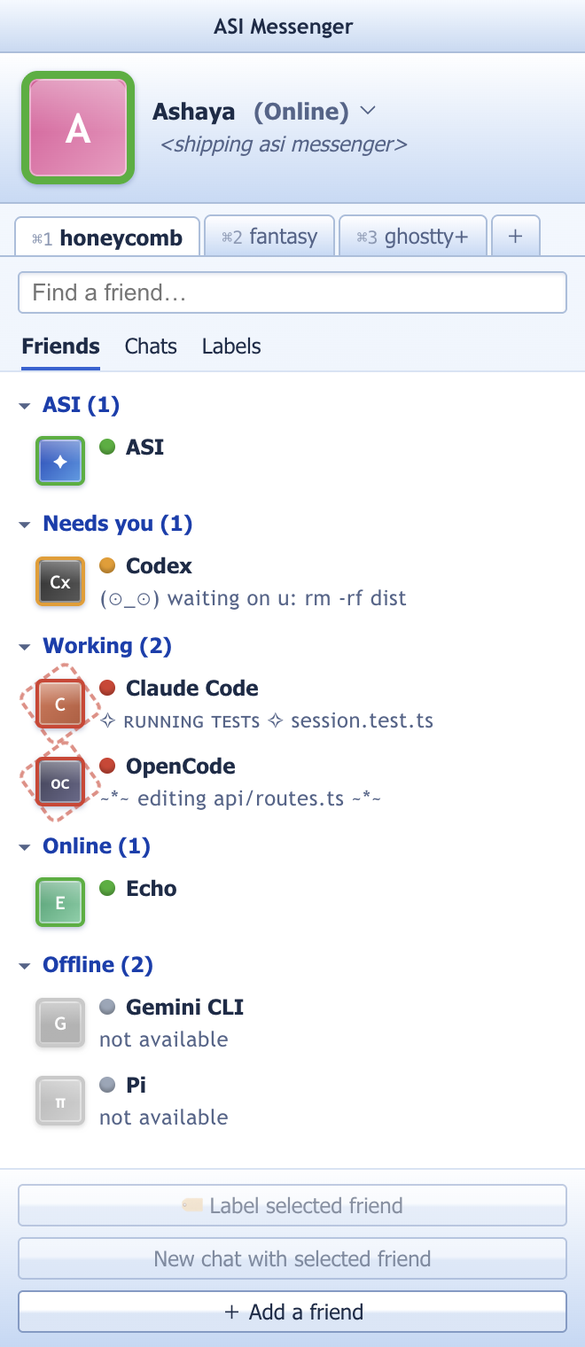
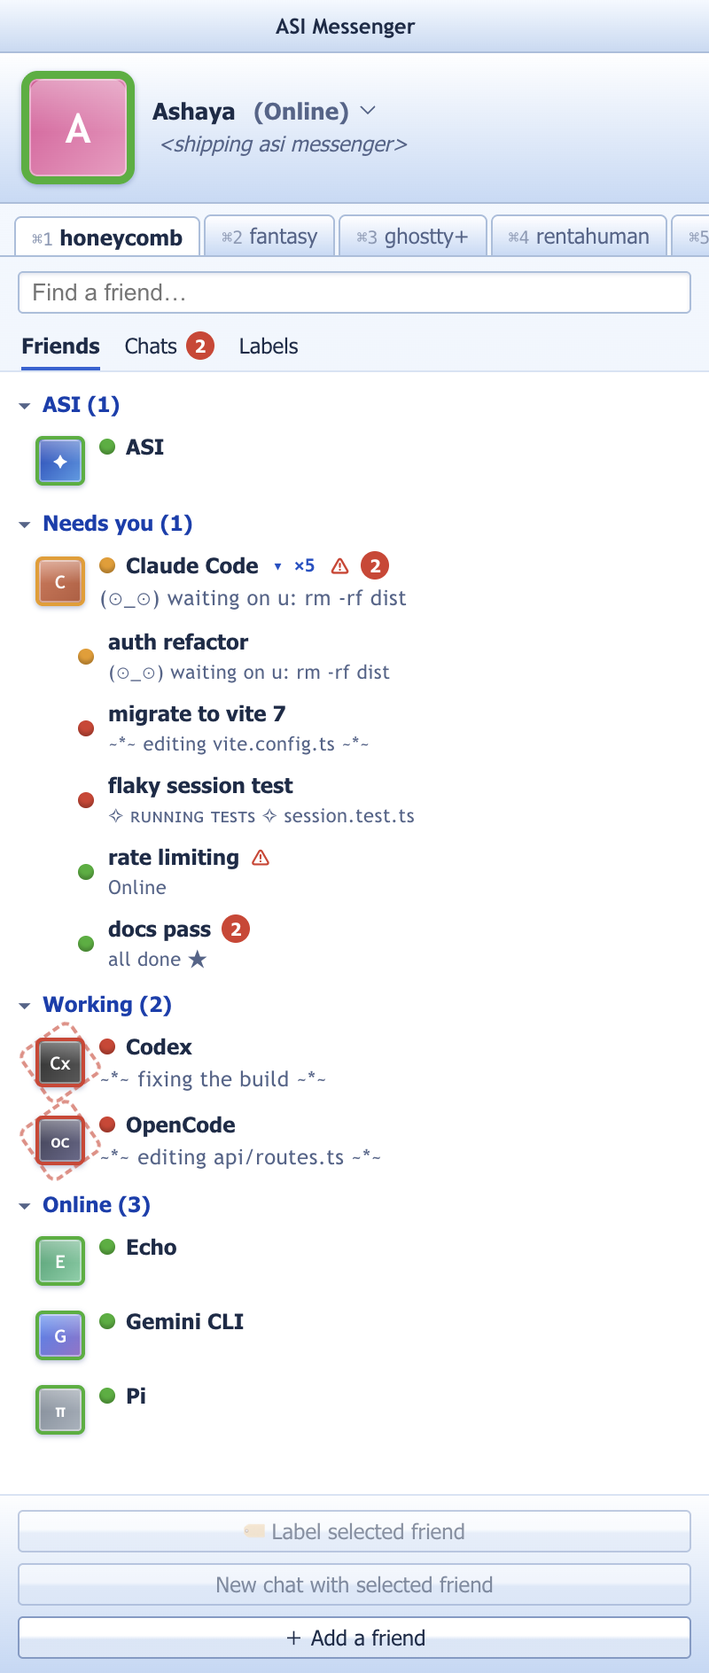
fix(tabs): chats opened while the tabs window loads no longer get lost; readable column at large sizes; README for many repos
Opening several chats in quick succession (tabs mode) dropped all but the first because the
page could not yet hear the open message; the main process now queues them until the page asks.
Conversation content is a centred column on big windows. README screenshots regenerated from a
five-repo, sixteen-chat demo scene, with Chats, Tabs and compact views.

diff --git a/src/renderer/src/env.d.ts b/src/renderer/src/env.d.ts
@@ -9,7 +9,7 @@ import type { VoiceModel } from '@shared/voice-models'
 
 declare global {
   interface Window {
-    asi: { tabs: { setActive(workspaceId: string, chatId: string | null): Promise<void>; popOut(chatId: string): Promise<void>; onOpen(cb: (a: { chatId: string }) => void): () => void }; data: { exportAll(): Promise<string | null>; deleteAllChats(): Promise<number> }; brain: { status(): Promise<import('@shared/brain').BrainStatus>; connect(input: import('@shared/brain').BrainInput): Promise<{ latencyMs: number; costPerDecisionUsd: number | null }>; disconnect(): Promise<void> }; voice: { overview(): Promise<VoiceOverview>; install(modelId: string): Promise<void>; cancel(modelId: string): Promise<void>; remove(modelId: string): Promise<void>; select(id: string | null): Promise<void>; onProgress(cb: (p: VoiceProgress) => void): () => void; testMode(): Promise<boolean>; transcribe(wav: Uint8Array): Promise<{ text: string; engine: string; seconds: number }>; status(): Promise<{ engines: { id: string; name: string; available: boolean }[]; selected: string | null }> }; onboarding: { complete(input: { name: string; workspacePath: string; presetIds: string[] }): Promise<void>; micStatus(): Promise<string>; askMic(): Promise<string> }; browser: { open(url: string): Promise<void>; state(): Promise<BrowserState>; newTab(): Promise<void>; closeTab(id: number): Promise<void>; select(id: number): Promise<void>; navigate(input: string): Promise<void>; back(): Promise<void>; forward(): Promise<void>; reload(): Promise<void>; openExternal(url: string): Promise<void>; onState(cb: (s: BrowserState) => void): () => void }; pty: { attach(chatId: string): Promise<string>; input(chatId: string, data: string): Promise<void>; resize(chatId: string, cols: number, rows: number): Promise<void>; openExternal(chatId: string): Promise<boolean>; onData(cb: (chatId: string, data: string) => void): () => void }; doodle: { open(workspaceId: string, opts?: { chatId?: string; name?: string }): Promise<void>; list(wsId: string): Promise<{ name: string; updatedAt: number }[]>; newName(wsId: string): Promise<string>; load(wsId: string, name: string): Promise<string | null>; save(wsId: string, name: string, json: string): Promise<void>; send(wsId: string, chatId: string, name: string, pngBase64: string, note?: string): Promise<void>; reveal(wsId: string): Promise<void>; onOpen(cb: (a: { chatId: string | null; name: string | null }) => void): () => void }; search: { all(q: string): Promise<PaletteResult[]>; jump(t: SearchTarget): Promise<void>; openPalette(): Promise<void>; onFocus(cb: () => void): () => void }; attachments: { load(messageId: string): Promise<{ chatId: string; name: string; kind: AttachmentKind; text: string; path: string | null; friendName: string }>; open(messageId: string): Promise<void>; pickFiles(): Promise<string[]>; sendFiles(chatId: string, paths: string[], note?: string): Promise<void>; saveImage(chatId: string, name: string, bytes: Uint8Array): Promise<string>; pathFor(file: File): string }; platform: string; windowFocused(): Promise<boolean>; api: AsiApi; onChanged(cb: (topic: string) => void): () => void; pickFolder(): Promise<string | null>; chat: { send(chatId: string, text: string, quote?: { name: string; text: string }): Promise<unknown>; setMode(chatId: string, mode: string): Promise<void>; nudge(chatId: string): Promise<boolean>; openNextUnread(): Promise<string | null>; toastOpenChat(chatId: string): Promise<void>; toastDismiss(): Promise<void>; interrupt(chatId: string): Promise<void>; respond(chatId: string, reqId: string, answer: string, reason?: string): Promise<void>; openWindow(chatId: string): Promise<void> }; friends: { detect(): Promise<DetectedPreset[]>; availability(): Promise<Record<string, boolean>>; addPreset(id: string): Promise<Friend>; addCustom(c: { name: string; command: string; args: string[]; kind: 'acp' | 'pty' | 'http'; manifest?: string; token?: string }): Promise<Friend>; testAcp(command: string, args: string[]): Promise<{ ok: true; agent: string } | { ok: false; error: string }>; openAddWindow(): Promise<void> }; safety: { setGlobalDangerous(on: boolean): Promise<void>; setFriendDangerous(id: string, on: boolean): Promise<void>; openOptions(): Promise<void> } }
+    asi: { tabs: { setActive(workspaceId: string, chatId: string | null): Promise<void>; takePending(workspaceId: string): Promise<string[]>; popOut(chatId: string): Promise<void>; onOpen(cb: (a: { chatId: string }) => void): () => void }; data: { exportAll(): Promise<string | null>; deleteAllChats(): Promise<number> }; brain: { status(): Promise<import('@shared/brain').BrainStatus>; connect(input: import('@shared/brain').BrainInput): Promise<{ latencyMs: number; costPerDecisionUsd: number | null }>; disconnect(): Promise<void> }; voice: { overview(): Promise<VoiceOverview>; install(modelId: string): Promise<void>; cancel(modelId: string): Promise<void>; remove(modelId: string): Promise<void>; select(id: string | null): Promise<void>; onProgress(cb: (p: VoiceProgress) => void): () => void; testMode(): Promise<boolean>; transcribe(wav: Uint8Array): Promise<{ text: string; engine: string; seconds: number }>; status(): Promise<{ engines: { id: string; name: string; available: boolean }[]; selected: string | null }> }; onboarding: { complete(input: { name: string; workspacePath: string; presetIds: string[] }): Promise<void>; micStatus(): Promise<string>; askMic(): Promise<string> }; browser: { open(url: string): Promise<void>; state(): Promise<BrowserState>; newTab(): Promise<void>; closeTab(id: number): Promise<void>; select(id: number): Promise<void>; navigate(input: string): Promise<void>; back(): Promise<void>; forward(): Promise<void>; reload(): Promise<void>; openExternal(url: string): Promise<void>; onState(cb: (s: BrowserState) => void): () => void }; pty: { attach(chatId: string): Promise<string>; input(chatId: string, data: string): Promise<void>; resize(chatId: string, cols: number, rows: number): Promise<void>; openExternal(chatId: string): Promise<boolean>; onData(cb: (chatId: string, data: string) => void): () => void }; doodle: { open(workspaceId: string, opts?: { chatId?: string; name?: string }): Promise<void>; list(wsId: string): Promise<{ name: string; updatedAt: number }[]>; newName(wsId: string): Promise<string>; load(wsId: string, name: string): Promise<string | null>; save(wsId: string, name: string, json: string): Promise<void>; send(wsId: string, chatId: string, name: string, pngBase64: string, note?: string): Promise<void>; reveal(wsId: string): Promise<void>; onOpen(cb: (a: { chatId: string | null; name: string | null }) => void): () => void }; search: { all(q: string): Promise<PaletteResult[]>; jump(t: SearchTarget): Promise<void>; openPalette(): Promise<void>; onFocus(cb: () => void): () => void }; attachments: { load(messageId: string): Promise<{ chatId: string; name: string; kind: AttachmentKind; text: string; path: string | null; friendName: string }>; open(messageId: string): Promise<void>; pickFiles(): Promise<string[]>; sendFiles(chatId: string, paths: string[], note?: string): Promise<void>; saveImage(chatId: string, name: string, bytes: Uint8Array): Promise<string>; pathFor(file: File): string }; platform: string; windowFocused(): Promise<boolean>; api: AsiApi; onChanged(cb: (topic: string) => void): () => void; pickFolder(): Promise<string | null>; chat: { send(chatId: string, text: string, quote?: { name: string; text: string }): Promise<unknown>; setMode(chatId: string, mode: string): Promise<void>; nudge(chatId: string): Promise<boolean>; openNextUnread(): Promise<string | null>; toastOpenChat(chatId: string): Promise<void>; toastDismiss(): Promise<void>; interrupt(chatId: string): Promise<void>; respond(chatId: string, reqId: string, answer: string, reason?: string): Promise<void>; openWindow(chatId: string): Promise<void> }; friends: { detect(): Promise<DetectedPreset[]>; availability(): Promise<Record<string, boolean>>; addPreset(id: string): Promise<Friend>; addCustom(c: { name: string; command: string; args: string[]; kind: 'acp' | 'pty' | 'http'; manifest?: string; token?: string }): Promise<Friend>; testAcp(command: string, args: string[]): Promise<{ ok: true; agent: string } | { ok: false; error: string }>; openAddWindow(): Promise<void> }; safety: { setGlobalDangerous(on: boolean): Promise<void>; setFriendDangerous(id: string, on: boolean): Promise<void>; openOptions(): Promise<void> } }
   }
 }
 

diff --git a/test/screenshots/shots.spec.ts b/test/screenshots/shots.spec.ts
@@ -3,6 +3,7 @@ import { tmpdir } from 'node:os'
 import { join } from 'node:path'
 import { test, expect, type Page } from '@playwright/test'
 import { launchApp } from '../e2e/helpers'
+import { buildScene } from './scene'
 
 const OUT = 'docs/images'
 const size = (h: { app: import('@playwright/test').ElectronApplication }, match: string, w: number, ht: number, x = 380, y = 60) =>
@@ -11,47 +12,19 @@ const shot = async (p: Page, name: string) => { await p.waitForTimeout(400); awa
 
 test('capture the README screenshots from a demo scene', async () => {
   const bin = mkdtempSync(join(tmpdir(), 'asi-demo-bin-'))
-  for (const [c, v] of [['claude', '2.1.289 (Claude Code)'], ['codex', 'codex-cli 0.160.0'], ['opencode', '1.18.30']]) { writeFileSync(join(bin, c!), `#!/bin/sh\necho "${v}"\n`); chmodSync(join(bin, c!), 0o755) }
+  for (const [c, v] of [['claude', '2.1.289 (Claude Code)'], ['codex', 'codex-cli 0.160.0'], ['opencode', '1.18.30'], ['gemini', '0.29.7'], ['pi', '0.74.2']]) { writeFileSync(join(bin, c!), `#!/bin/sh\necho "${v}"\n`); chmodSync(join(bin, c!), 0o755) }
   const ws = mkdtempSync(join(tmpdir(), 'honeycomb-'))
   mkdirSync(ws, { recursive: true })
   const h = await launchApp({ seed: true, toasts: true, env: { ASI_TEST_PATH: `${bin}:/usr/bin:/bin`, ASI_VOICE_FAKE: 'x' } })
   try {
-    const ids = await h.win.evaluate(async (path) => {
-      const api = window.asi.api
-      await api.settings.set('profile', { name: 'Ashaya', personalMessage: '<shipping asi messenger>', presence: 'online' })
-      const home = (await api.workspaces.list())[0]!
-      await api.workspaces.setPath(home.id, path); await api.workspaces.rename(home.id, 'honeycomb')
-      const w2 = await api.workspaces.create({ name: 'fantasy', path: '/tmp/fantasy' })
-      await api.workspaces.create({ name: 'ghostty+', path: '/tmp/ghostty' })
-      void w2
-      const mk = (harness: 'claude' | 'codex' | 'acp', displayName: string, avatar: string, extra: Record<string, unknown> = {}) => api.friends.create({ harness, displayName, avatar, command: avatar, ...extra })
-      const claude = await mk('claude', 'Claude Code', 'claude')
-      const codex = await mk('codex', 'Codex', 'codex')
-      const oc = await mk('acp', 'OpenCode', 'opencode', { transport: 'opencode' })
-      await api.friends.create({ harness: 'acp', displayName: 'Gemini CLI', avatar: 'gemini', command: 'gemini', transport: 'gemini' })
-      await api.friends.create({ harness: 'acp', displayName: 'Pi', avatar: 'pi', command: 'pi-acp', transport: 'generic' })
-      const c1 = await api.chats.create({ workspaceId: home.id, friendId: claude.id, title: 'auth refactor' })
-      const c2 = await api.chats.create({ workspaceId: home.id, friendId: codex.id, title: 'build fix' })
-      const c3 = await api.chats.create({ workspaceId: home.id, friendId: oc.id, title: 'api routes' })
-      await api.chats.setStatus(c1.id, 'busy', '✧ ʀᴜɴɴɪɴɢ ᴛᴇsᴛs ✧ session.test.ts')
-      await api.chats.setStatus(c2.id, 'away', '(⊙_⊙) waiting on u: rm -rf dist')
-      await api.chats.setStatus(c3.id, 'busy', '~*~ editing api/routes.ts ~*~')
-      const lab = await api.labels.create('infra', '#6b3fa0'); await api.labels.setForChat(c1.id, [lab.id])
-      const ap = (chatId: string, role: 'user' | 'agent', kind: string, body: unknown, text: string) => api.messages.append({ chatId, role, kind, body, text })
-      await ap(c1.id, 'user', 'text', { text: 'the session refresh test is flaky. find out why and fix it' }, 'the session refresh test is flaky. find out why and fix it')
-      await ap(c1.id, 'agent', 'text', { text: 'Reproducing first, then I will look at the refresh path.' }, 'Reproducing first, then I will look at the refresh path.')
-      await ap(c1.id, 'agent', 'tool', { t: 'tool', id: 't1', kind: 'exec', title: 'Run tests', command: 'pnpm vitest run src/auth/session.test.ts', output: '✗ refreshes once under concurrent calls\n  expected 1, got 2\n  1 failed | 23 passed', exit: 1, durationMs: 2400, done: true }, 'pnpm vitest run')
-      await ap(c1.id, 'agent', 'attachment', { t: 'attachment', id: 'a1', kind: 'markdown', name: 'refresh-race.md', body: '# Root cause\n\nTwo tabs call `refresh()` at once; the lock is per tab, so both win.\n\n```ts\nawait navigator.locks.request("refresh", () => doRefresh())\n```\n\n- Use a **global** lock (BroadcastChannel)\n- Add a regression test\n' }, 'refresh-race.md')
-      await ap(c1.id, 'agent', 'permission', { t: 'permission', reqId: 'p1', tool: 'Edit', summary: 'src/auth/session.ts', risk: 'low', options: [{ id: 'allow-once', label: 'Allow once' }, { id: 'allow-chat', label: 'Allow for this chat' }, { id: 'deny', label: 'Deny' }], decision: null }, 'Edit src/auth/session.ts')
-      await ap(c1.id, 'agent', 'question', { t: 'question', reqId: 'q1', prompt: 'Should the refresh lock be per tab or global (BroadcastChannel)?', choices: ['Per tab', 'Global'], answer: null }, 'lock question')
-      const ev = await api.messages.list(c1.id)
-      await api.chats.markRead(c1.id)
-      return { c1: c1.id, c2: c2.id, att: ev.find((m) => m.kind === 'attachment')!.id, ws: home.id, claude: claude.id }
-    }, ws)
+    const ids = await buildScene(h.win, ws)
     await expect(h.win.locator('[data-friend="Claude Code"]')).toBeVisible()
-    await size(h, '#/contacts', 330, 760, 40, 50)
+    await size(h, '#/contacts', 400, 1000, 40, 25)
     await h.win.waitForTimeout(600)
     await shot(h.win, 'contacts.png')
+    await h.win.getByRole('tab', { name: /^Chats/ }).click()
+    await shot(h.win, 'chats.png')
+    await h.win.getByRole('tab', { name: /^Friends/ }).click()
 
     // conversation
     let p = h.app.waitForEvent('window')
@@ -115,6 +88,19 @@ test('capture the README screenshots from a demo scene', async () => {
     const opts = await p
     await size(h, '#/options', 620, 860, 440, 20)
     await shot(opts, 'options.png')
+    await opts.close().catch(() => {})
+
+    // tabs mode with a busy repo: all seven honeycomb chats in one window, then the same window at messenger size
+    await h.win.evaluate(() => window.asi.api.settings.set('chatWindows', 'tabs'))
+    for (const id of ids.homeChats) await h.win.evaluate((i) => window.asi.chat.openWindow(i), id)
+    await expect.poll(() => h.app.windows().filter((w) => w.url().includes('#/tabs/')).length).toBe(1)
+    const tabs = h.app.windows().find((w) => w.url().includes('#/tabs/'))!
+    await expect(tabs.getByRole('tab')).toHaveCount(7)
+    await tabs.getByRole('tab', { name: /auth refactor/ }).click()
+    await size(h, '#/tabs/', 1280, 820, 20, 30)
+    await shot(tabs, 'tabs.png')
+    await size(h, '#/tabs/', 460, 620, 400, 60)
+    await shot(tabs, 'compact.png')
   } finally {
     await h.cleanup()
   }

diff --git a/test/screenshots/scene.ts b/test/screenshots/scene.ts
@@ -1,0 +1,69 @@
+import type { Page } from '@playwright/test'
+
+/**
+ * A believable day of work: five repos, a dozen-plus chats, several agents, every kind of status.
+ * Used by the README screenshots so they show what the app looks like at scale, not with three friends.
+ */
+export async function buildScene(win: Page, homePath: string): Promise<{ c1: string; c2: string; att: string; ws: string; homeChats: string[] }> {
+  return win.evaluate(async (path) => {
+    const api = window.asi.api
+    await api.settings.set('profile', { name: 'Ashaya', personalMessage: '<shipping asi messenger>', presence: 'online' })
+    const home = (await api.workspaces.list())[0]!
+    await api.workspaces.setPath(home.id, path)
+    await api.workspaces.rename(home.id, 'honeycomb')
+    const fantasy = await api.workspaces.create({ name: 'fantasy', path: '/tmp/fantasy' })
+    const ghostty = await api.workspaces.create({ name: 'ghostty+', path: '/tmp/ghostty' })
+    const rent = await api.workspaces.create({ name: 'rentahuman', path: '/tmp/rentahuman' })
+    const siift = await api.workspaces.create({ name: 'siift', path: '/tmp/siift' })
+
+    const mk = (harness: 'claude' | 'codex' | 'acp', displayName: string, avatar: string, extra: Record<string, unknown> = {}) => api.friends.create({ harness, displayName, avatar, command: avatar, ...extra })
+    const claude = await mk('claude', 'Claude Code', 'claude')
+    const codex = await mk('codex', 'Codex', 'codex')
+    const oc = await mk('acp', 'OpenCode', 'opencode', { transport: 'opencode' })
+    const gemini = await api.friends.create({ harness: 'acp', displayName: 'Gemini CLI', avatar: 'gemini', command: 'gemini', transport: 'gemini' })
+    await api.friends.create({ harness: 'pi', displayName: 'Pi', avatar: 'pi', command: 'pi' })
+
+    const chat = async (ws: string, friend: string, title: string, status: 'busy' | 'away' | 'online', text: string | null, unread = 0, mode?: 'dangerous') => {
+      const c = await api.chats.create({ workspaceId: ws, friendId: friend, title })
+      await api.chats.setStatus(c.id, status, text)
+      if (mode) await api.chats.setMode(c.id, mode)
+      for (let i = 0; i < unread; i++) await api.messages.append({ chatId: c.id, role: 'agent', kind: 'text', body: { text: 'ping' }, text: 'ping' })
+      return c
+    }
+
+    // honeycomb: the busy repo, five Claude Codes at once
+    const c1 = await chat(home.id, claude.id, 'auth refactor', 'away', '(⊙_⊙) waiting on u: rm -rf dist')
+    const homeChats = [c1.id]
+    homeChats.push((await chat(home.id, claude.id, 'flaky session test', 'busy', '✧ ʀᴜɴɴɪɴɢ ᴛᴇsᴛs ✧ session.test.ts')).id)
+    homeChats.push((await chat(home.id, claude.id, 'migrate to vite 7', 'busy', '~*~ editing vite.config.ts ~*~')).id)
+    homeChats.push((await chat(home.id, claude.id, 'docs pass', 'online', 'all done ★', 2)).id)
+    homeChats.push((await chat(home.id, claude.id, 'rate limiting', 'online', null, 0, 'dangerous')).id)
+    const c2 = await chat(home.id, codex.id, 'build fix', 'busy', '~*~ fixing the build ~*~')
+    homeChats.push(c2.id)
+    homeChats.push((await chat(home.id, oc.id, 'api routes', 'busy', '~*~ editing api/routes.ts ~*~')).id)
+
+    // the other repos
+    await chat(fantasy.id, claude.id, 'chapter 3 outline', 'online', 'all done ★')
+    await chat(fantasy.id, claude.id, 'character bible', 'busy', '~*~ writing characters.md ~*~')
+    await chat(fantasy.id, codex.id, 'fix epub export', 'online', 'all done ★', 1)
+    await chat(ghostty.id, claude.id, 'fix tab drag', 'away', '(⊙_⊙) waiting on u: Edit Tab.swift')
+    await chat(ghostty.id, gemini.id, 'review PR 214', 'online', null)
+    await chat(rent.id, claude.id, 'stripe webhook retries', 'busy', '✧ ʀᴜɴɴɪɴɢ ᴛᴇsᴛs ✧ webhooks.test.ts')
+    await chat(rent.id, codex.id, 'migration dry run', 'away', '(⊙_⊙) waiting on u: psql -f 0042.sql', 1)
+    await chat(rent.id, oc.id, 'seed data', 'online', 'all done ★')
+    await chat(siift.id, claude.id, 'onboarding copy', 'online', null)
+    await chat(siift.id, codex.id, 'lint cleanup', 'busy', '~*~ fixing 38 lint errors ~*~')
+
+    const lab = await api.labels.create('infra', '#6b3fa0'); await api.labels.setForChat(c1.id, [lab.id])
+    const ap = (chatId: string, role: 'user' | 'agent', kind: string, body: unknown, text: string) => api.messages.append({ chatId, role, kind, body, text })
+    await ap(c1.id, 'user', 'text', { text: 'the session refresh test is flaky. find out why and fix it' }, 'the session refresh test is flaky. find out why and fix it')
+    await ap(c1.id, 'agent', 'text', { text: 'Reproducing first, then I will look at the refresh path.' }, 'Reproducing first, then I will look at the refresh path.')
+    await ap(c1.id, 'agent', 'tool', { t: 'tool', id: 't1', kind: 'exec', title: 'Run tests', command: 'pnpm vitest run src/auth/session.test.ts', output: '✗ refreshes once under concurrent calls\n  expected 1, got 2\n  1 failed | 23 passed', exit: 1, durationMs: 2400, done: true }, 'pnpm vitest run')
+    await ap(c1.id, 'agent', 'attachment', { t: 'attachment', id: 'a1', kind: 'markdown', name: 'refresh-race.md', body: '# Root cause\n\nTwo tabs call `refresh()` at once; the lock is per tab, so both win.\n\n```ts\nawait navigator.locks.request("refresh", () => doRefresh())\n```\n\n- Use a **global** lock (BroadcastChannel)\n- Add a regression test\n' }, 'refresh-race.md')
+    await ap(c1.id, 'agent', 'permission', { t: 'permission', reqId: 'p1', tool: 'Edit', summary: 'src/auth/session.ts', risk: 'low', options: [{ id: 'allow-once', label: 'Allow once' }, { id: 'allow-chat', label: 'Allow for this chat' }, { id: 'deny', label: 'Deny' }], decision: null }, 'Edit src/auth/session.ts')
+    await ap(c1.id, 'agent', 'question', { t: 'question', reqId: 'q1', prompt: 'Should the refresh lock be per tab or global (BroadcastChannel)?', choices: ['Per tab', 'Global'], answer: null }, 'lock question')
+    await api.chats.markRead(c1.id)
+    const att = (await api.messages.list(c1.id)).find((m) => m.kind === 'attachment')!.id
+    return { c1: c1.id, c2: c2.id, att, ws: home.id, homeChats }
+  }, homePath)
+}

diff --git a/test/e2e/sizes.spec.ts b/test/e2e/sizes.spec.ts
@@ -1,0 +1,39 @@
+import { test, expect } from '@playwright/test'
+import { launchApp } from './helpers'
+
+test('a chat window works at its smallest messenger size and keeps a readable column when huge', async () => {
+  const h = await launchApp()
+  try {
+    const chatId = await h.win.evaluate(async () => {
+      const ws = await window.asi.api.workspaces.create({ name: 'w', path: '/tmp' })
+      const f = await window.asi.api.friends.create({ harness: 'fake', displayName: 'Fake' })
+      const c = await window.asi.api.chats.create({ workspaceId: ws.id, friendId: f.id, title: 'size check' })
+      await window.asi.api.messages.append({ chatId: c.id, role: 'agent', kind: 'text', body: {}, text: 'a long reply '.repeat(60) })
+      return c.id
+    })
+    const opened = h.app.waitForEvent('window')
+    await h.win.evaluate((id) => window.asi.chat.openWindow(id), chatId)
+    const chat = await opened
+    await expect(chat.getByTestId('transcript')).toBeVisible()
+    const resize = (w: number, ht: number) => h.app.evaluate(({ BrowserWindow }, [w2, h2]) => { const win = BrowserWindow.getAllWindows().find((b) => b.webContents.getURL().includes('#/chat/'))!; win.setSize(w2 as number, h2 as number); return win.getSize() }, [w, ht] as const)
+
+    // smallest: Electron clamps to the window's minimum, and nothing spills sideways or hides the composer
+    const [minW, minH] = await resize(300, 200)
+    expect(minW).toBeLessThanOrEqual(480)
+    expect(minH).toBeLessThanOrEqual(380)
+    await chat.waitForTimeout(300)
+    expect(await chat.evaluate(() => document.documentElement.scrollWidth <= document.documentElement.clientWidth)).toBe(true)
+    await expect(chat.getByLabel('Message')).toBeVisible()
+    await expect(chat.getByRole('button', { name: 'Send', exact: true })).toBeVisible()
+    await expect(chat.getByRole('button', { name: 'Nudge' })).toBeVisible()
+
+    // huge: the conversation is a centred column, not text stretched across a 2500 px screen
+    await resize(2400, 1200)
+    await chat.waitForTimeout(300)
+    const w = await chat.locator('.transcript .block').first().evaluate((el) => el.getBoundingClientRect().width)
+    expect(w).toBeLessThan(1100)
+    expect(await chat.getByLabel('Message').evaluate((el) => el.getBoundingClientRect().width)).toBeLessThan(1100)
+  } finally {
+    await h.cleanup()
+  }
+})

diff --git a/src/main/windows.ts b/src/main/windows.ts
@@ -197,6 +197,17 @@ export function showChat(chatId: string): void { if (router) router(chatId); els
 
 const tabsWindows = new Map<string, BrowserWindow>()
 const tabsActive = new Map<string, string | null>()
+/** Chats opened while a tabs window is still loading: its page cannot hear a message yet, so they wait here until it asks. */
+const tabsQueue = new Map<string, string[]>()
+const tabsReady = new Set<string>()
+
+/** The tabs page is up: hand over everything queued while it loaded, and deliver later opens live. */
+export function takePendingTabs(workspaceId: string): string[] {
+  tabsReady.add(workspaceId)
+  const q = tabsQueue.get(workspaceId) ?? []
+  tabsQueue.delete(workspaceId)
+  return q
+}
 
 /** One tabbed window per workspace. */
 export function openTabsWindow(workspaceId: string, chatId: string): BrowserWindow {
@@ -204,13 +215,14 @@ export function openTabsWindow(workspaceId: string, chatId: string): BrowserWind
   if (existing && !existing.isDestroyed()) {
     existing.show()
     existing.focus()
-    existing.webContents.send('asi:tabs-open', { chatId })
+    if (tabsReady.has(workspaceId)) existing.webContents.send('asi:tabs-open', { chatId })
+    else tabsQueue.set(workspaceId, [...(tabsQueue.get(workspaceId) ?? []), chatId])
     return existing
   }
   const win = new BrowserWindow(baseOptions({ width: 760, height: 620, minWidth: 520, minHeight: 400, title: 'Chats' }))
   tabsWindows.set(workspaceId, win)
   win.once('ready-to-show', () => win.show())
-  win.on('closed', () => { tabsWindows.delete(workspaceId); tabsActive.delete(workspaceId) })
+  win.on('closed', () => { tabsWindows.delete(workspaceId); tabsActive.delete(workspaceId); tabsQueue.delete(workspaceId); tabsReady.delete(workspaceId) })
   loadRoute(win, `/tabs/${workspaceId}?chat=${chatId}`)
   return win
 }

diff --git a/src/main/index.ts b/src/main/index.ts
@@ -8,7 +8,7 @@ import { closeToastsFor, createAttentionHandler, openNextUnread, refreshBadge } 
 import { HarnessManager } from '../harness/manager'
 import { registerHarnesses } from '../harness/registry'
 import { createIngestor } from './ingest'
-import { openOnboardingWindow, createBrowserWindow, openDoodleWindow, closeSearchWindow, openSearchWindow, openAttachmentWindow, shakeWindow, openAddFriendWindow, openChatWindow, openContactsWindow, openOptionsWindow, openTabsWindow, setChatRouter, setTabsActive, showChat } from './windows'
+import { openOnboardingWindow, createBrowserWindow, openDoodleWindow, closeSearchWindow, openSearchWindow, openAttachmentWindow, shakeWindow, openAddFriendWindow, openChatWindow, openContactsWindow, openOptionsWindow, openTabsWindow, setChatRouter, setTabsActive, takePendingTabs, showChat } from './windows'
 import { addCustom, addPreset, availability, detectPresets, testAcp } from './friends-service'
 import { createChatService } from './chat-service'
 import { loadAttachment } from './attachments'
@@ -184,6 +184,7 @@ app.whenReady().then(async () => {
     else openChatWindow(chatId)
   })())
   ipcMain.handle('tabs:active', (_e, workspaceId: string, chatId: string | null) => { setTabsActive(workspaceId, chatId) })
+  ipcMain.handle('tabs:take-pending', (_e, workspaceId: string) => takePendingTabs(workspaceId))
   ipcMain.handle('tabs:pop-out', (_e, chatId: string) => { openChatWindow(chatId) })
   ipcMain.handle('window:open-add-friend', () => { openAddFriendWindow() })
   ipcMain.handle('friends:detect', () => detectPresets())

diff --git a/test/e2e/tabs.spec.ts b/test/e2e/tabs.spec.ts
@@ -83,3 +83,26 @@ test('windows mode is unchanged and the setting is respected live', async () => 
     await h.cleanup()
   }
 })
+
+test('tabs mode: chats opened in quick succession, before the window has loaded, all get a tab', async () => {
+  const h = await launchApp()
+  try {
+    const ids = await h.win.evaluate(async () => {
+      const api = window.asi.api
+      await api.settings.set('chatWindows', 'tabs')
+      const ws = await api.workspaces.create({ name: 'burst', path: '/tmp' })
+      const f = await api.friends.create({ harness: 'fake', displayName: 'Fake' })
+      const out: string[] = []
+      for (const t of ['one', 'two', 'three', 'four', 'five']) out.push((await api.chats.create({ workspaceId: ws.id, friendId: f.id, title: t })).id)
+      return out
+    })
+    // fire them all without waiting for the window
+    await h.win.evaluate((list) => { for (const id of list) void window.asi.chat.openWindow(id) }, ids)
+    await expect.poll(() => h.app.windows().filter((w) => w.url().includes('#/tabs/')).length).toBe(1)
+    const tabs = h.app.windows().find((w) => w.url().includes('#/tabs/'))!
+    await expect(tabs.getByRole('tab')).toHaveCount(5)
+    await expect(tabs.getByRole('tab', { name: /five/ })).toHaveAttribute('aria-selected', 'true') // the last one opened is in front
+  } finally {
+    await h.cleanup()
+  }
+})

diff --git a/src/renderer/src/TabsWindow.tsx b/src/renderer/src/TabsWindow.tsx
@@ -19,11 +19,14 @@ export function TabsWindow({ workspaceId, firstChat }: { workspaceId: string; fi
 
   // restore the tabs you had open, then make sure the requested chat is one of them
   useEffect(() => {
-    void window.asi.api.settings.get<TabsState>(key, EMPTY_TABS).then((saved) => {
-      setTabs(firstChat ? openTab(saved, firstChat) : saved)
+    void window.asi.api.settings.get<TabsState>(key, EMPTY_TABS).then(async (saved) => {
+      // chats opened while this window was loading arrive here, in the order they were opened
+      const queued = await window.asi.tabs.takePending(workspaceId)
+      const base = firstChat ? openTab(saved, firstChat) : saved
+      setTabs(queued.reduce(openTab, base))
       setReady(true)
     })
-  }, [key, firstChat])
+  }, [key, firstChat, workspaceId])
   useEffect(() => window.asi.tabs.onOpen(({ chatId }) => setTabs((t) => openTab(t, chatId))), [])
 
   useEffect(() => {

diff --git a/src/renderer/src/styles/ui.css b/src/renderer/src/styles/ui.css
@@ -382,3 +382,7 @@ kbd { font: 10.5px var(--font-mono); padding: 0 4px; border: 1px solid var(--rul
 .subchat .st { color: var(--ink-soft); white-space: nowrap; overflow: hidden; text-overflow: ellipsis; font-size: 11px; }
 .chatrow .who-tag { font-weight: bold; color: var(--accent-deep); }
 .chatrow .who-tag::after { content: ' ·'; font-weight: normal; }
+
+/* large and full-screen windows: keep the conversation a readable column instead of stretching it edge to edge */
+.transcript { padding-inline: max(12px, calc((100% - 1040px) / 2)); }
+.composer { padding-inline: max(8px, calc((100% - 1040px) / 2 + 4px)); }

diff --git a/src/preload/index.ts b/src/preload/index.ts
@@ -127,6 +127,7 @@ const data = {
 
 const tabs = {
   setActive: (workspaceId: string, chatId: string | null): Promise<void> => ipcRenderer.invoke('tabs:active', workspaceId, chatId),
+  takePending: (workspaceId: string): Promise<string[]> => ipcRenderer.invoke('tabs:take-pending', workspaceId),
   popOut: (chatId: string): Promise<void> => ipcRenderer.invoke('tabs:pop-out', chatId),
   onOpen: (cb: (a: { chatId: string }) => void): (() => void) => { const h = (_e: unknown, a: { chatId: string }) => cb(a); ipcRenderer.on('asi:tabs-open', h); return () => ipcRenderer.removeListener('asi:tabs-open', h) }
 }

diff --git a/README.md b/README.md
@@ -34,6 +34,21 @@ Every agent CLI you register is a **friend**. The contact list groups them by wh
 </tr>
 </table>
 
+## Five repos, a dozen chats, one window
+
+Run as many agents as you like, in as many repos as you like. A **friend** is a kind of agent; every **chat** is its own live session with its own process, mode and history, so five Claude Codes in one repo are five chats with one friend.
+
+<table>
+<tr>
+<td width="28%" valign="top"><img src="docs/images/chats.png" alt="Chats tab: every chat in the workspace with its agent, status and unread count"><br><sub><b>Chats tab.</b> Waiting-on-you first, then working. Each row shows which agent it is.</sub></td>
+<td valign="top"><img src="docs/images/tabs.png" alt="Tabs mode: seven chats of one repo in a single window, status dots and unread badges on each tab"><br><sub><b>Tabs mode</b> (one window per repo) at a large size. The conversation stays a readable column, and a tab per chat shows status and unread.</sub></td>
+</tr>
+</table>
+
+The Friends tab nests a friend's chats under it (`×5`, collapsible) and scopes its status to the active workspace. Chats are titled from your first message, then by the agent's own title or a model if you connect one, and never over a title you typed. Windows are resizable from a compact messenger (about 460 px) up to full screen:
+
+<p align="center"><img src="docs/images/compact.png" alt="The same chat window at messenger size" width="34%"></p>
+
 ## A conversation, not a terminal
 
 <table>
